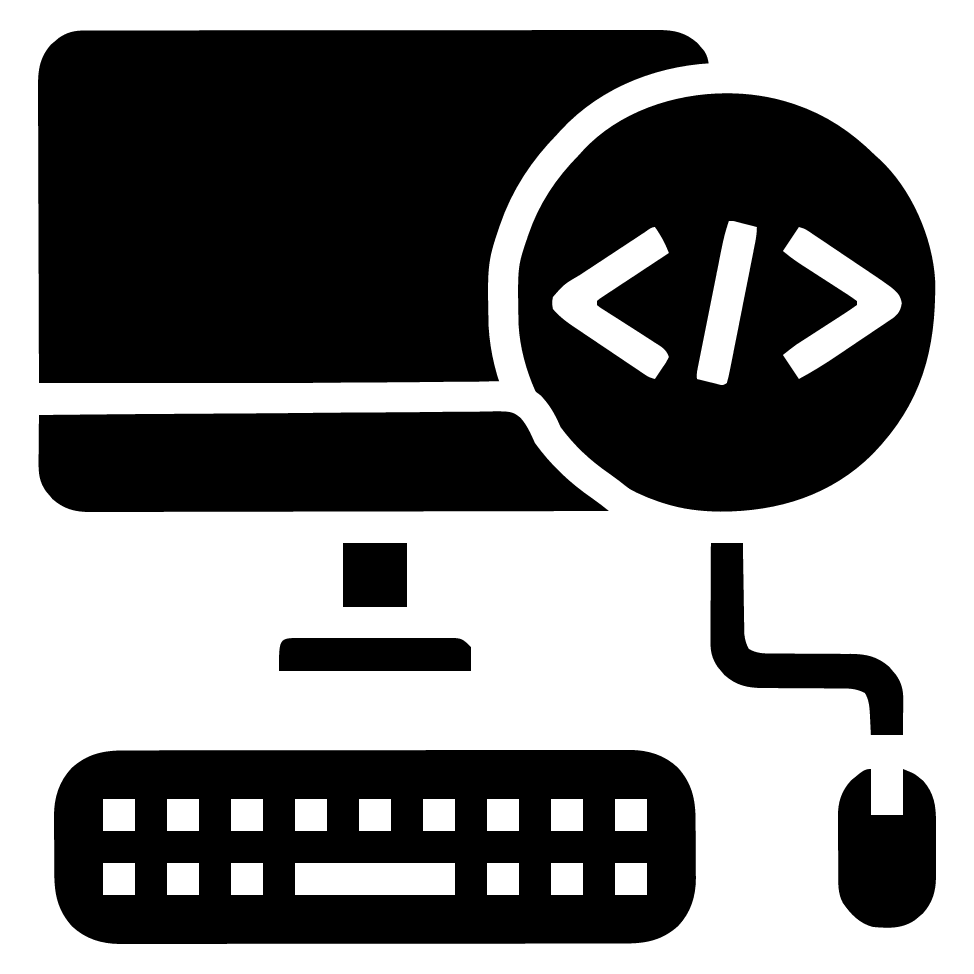
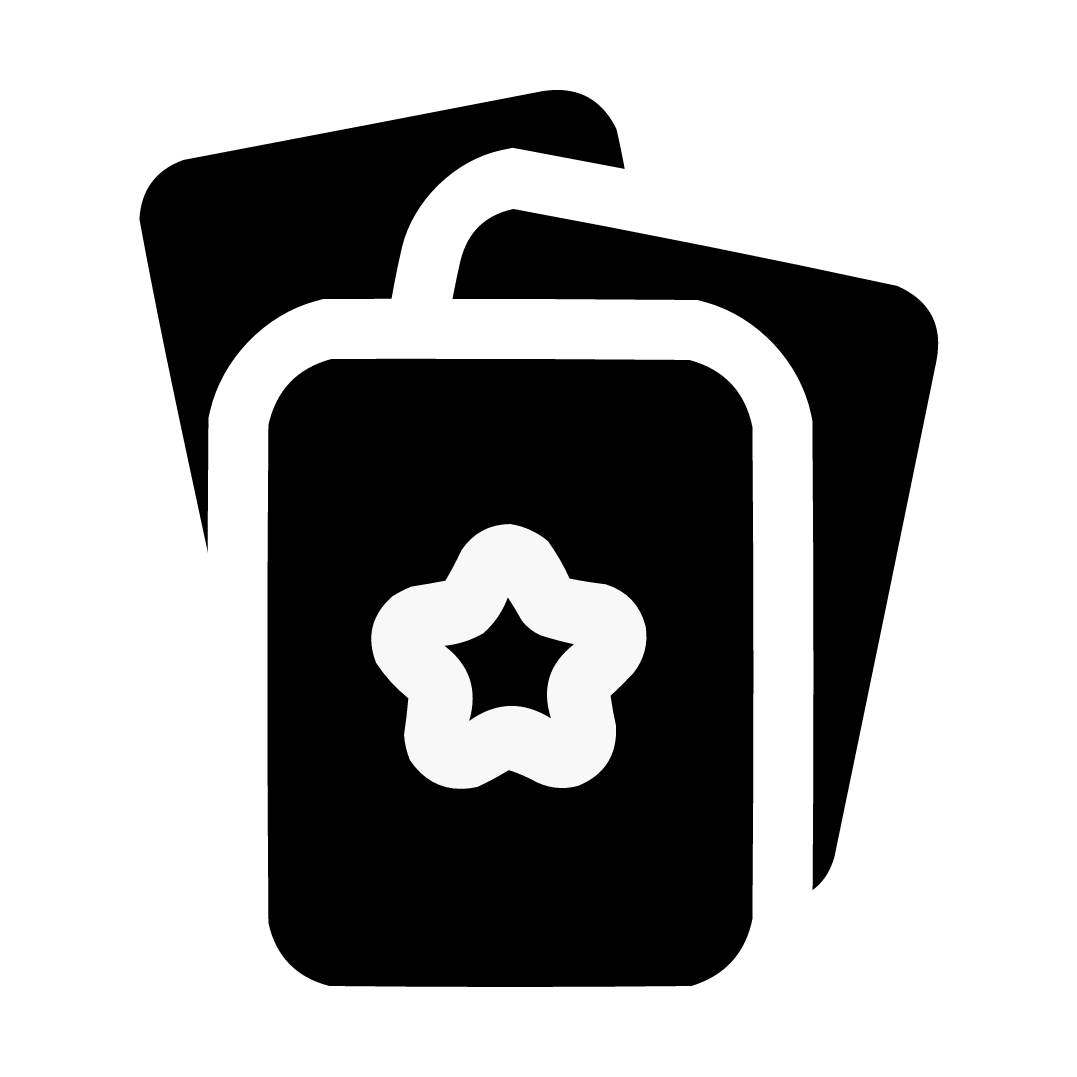
Add the DELETE /decks/cover endpoint
Split the API calls into separate try-catch blocks in components, in order to show response-specific messages to the client

diff --git a/frontend/src/entities/educational-resource/ui/modals/UpdateEducationalResourceModal.vue b/frontend/src/entities/educational-resource/ui/modals/UpdateEducationalResourceModal.vue
@@ -90,7 +90,7 @@ const updateEducationalResourceCoverMutation = useMutation({
   }
 });
 
-const removeEducationalResourceCoverMutation = useMutation({
+const deleteEducationalResourceCoverMutation = useMutation({
   mutationFn: (educationalResourceId: number) => removeCover(educationalResourceId),
   onSuccess: async (updatedEducationalResource) => {
     await queryClient.setQueryData(
@@ -118,18 +118,8 @@ const submit = async () => {
   if (!coverResult.success) return;
 
   try {
-    const {id} = await updateEducationalResourceMutation.mutateAsync(result.data);
-    if (coverResult.data) {
-      await updateEducationalResourceCoverMutation.mutateAsync({
-        educationalResourceId: id,
-        file: coverResult.data
-      });
-    } else {
-      await removeEducationalResourceCoverMutation.mutateAsync(id);
-    }
+    await updateEducationalResourceMutation.mutateAsync(result.data);
     push(t(codeToKey(codes.EDUCATIONAL_RESOURCE_UPDATE_SUCCESS)), "success", "update");
-    backdropStore.hide();
-    modalStore.hide();
   } catch (error) {
     push(t(codeToKey(codes.EDUCATIONAL_RESOURCE_UPDATE_ERROR)), "error");
     if (axios.isAxiosError(error)) {
@@ -137,6 +127,35 @@ const submit = async () => {
       await serverValidate(body);
     }
   }
+
+  if (coverResult.data) {
+    try {
+      await updateEducationalResourceCoverMutation.mutateAsync({
+        educationalResourceId: props.id,
+        file: coverResult.data
+      });
+      push(t(codeToKey(codes.EDUCATIONAL_RESOURCE_COVER_UPDATE_SUCCESS)), "success", "update");
+    } catch (error) {
+      push(t(codeToKey(codes.EDUCATIONAL_RESOURCE_COVER_UPDATE_ERROR)), "error");
+      if (axios.isAxiosError(error)) {
+        const body = error.response?.data as ErrorResponse;
+        await coverValidation.serverValidate(body);
+      }
+    }
+  } else {
+    try {
+      await deleteEducationalResourceCoverMutation.mutateAsync(props.id);
+      push(t(codeToKey(codes.EDUCATIONAL_RESOURCE_COVER_DELETE_SUCCESS)), "success", "delete");
+    } catch (error) {
+      push(t(codeToKey(codes.EDUCATIONAL_RESOURCE_COVER_DELETE_ERROR)), "error");
+      if (axios.isAxiosError(error)) {
+        const body = error.response?.data as ErrorResponse;
+        await coverValidation.serverValidate(body);
+      }
+    }
+  }
+  backdropStore.hide();
+  modalStore.hide();
 };
 
 onMounted(() => {

diff --git a/frontend/src/pages/decks/ui/tabs/DeckInfoTab.vue b/frontend/src/pages/decks/ui/tabs/DeckInfoTab.vue
@@ -14,6 +14,7 @@ import {
 } from "@/entities/deck";
 import {decksQueryKeys} from "@/entities/deck";
 import {decksApi} from "@/entities/deck";
+import {removeCover} from "@/entities/deck";
 import {useI18n} from "vue-i18n";
 import {createUploadImageSchema, useToastStore} from "@/shared/model";
 
@@ -82,6 +83,19 @@ const updateDeckCoverMutation = useMutation({
   }
 });
 
+const deleteDeckCoverMutation = useMutation({
+  mutationFn: (deckId: number) => removeCover(deckId),
+  onSuccess: async (updatedDeck, variables) => {
+    await queryClient.setQueryData(
+        decksQueryKeys.byId(variables),
+        (old: DeckResponseDto | undefined) => {
+          if (!old) return old;
+          return updatedDeck;
+        }
+    );
+  }
+});
+
 const cover = ref<File | null>(null);
 
 const coverValidation = useValidation(cover, createUploadImageSchema("cover", t, allowedImageTypes, MAX_DECK_COVER_SIZE));
@@ -114,17 +128,30 @@ const submit = async () => {
     }
   }
 
-  try {
-    if (coverResult.data) await updateDeckCoverMutation.mutateAsync({
-      deckId: props.id,
-      file: coverResult.data
-    });
-    push(t(codeToKey(codes.DECK_COVER_UPDATE_SUCCESS)), "success", "update");
-  } catch (error) {
-    push(t(codeToKey(codes.DECK_COVER_UPDATE_ERROR)), "error");
-    if (axios.isAxiosError(error)) {
-      const body = error.response?.data as ErrorResponse;
-      await serverValidate(body);
+  if (coverResult.data) {
+    try {
+      await updateDeckCoverMutation.mutateAsync({
+        deckId: props.id,
+        file: coverResult.data
+      });
+      push(t(codeToKey(codes.DECK_COVER_UPDATE_SUCCESS)), "success", "update");
+    } catch (error) {
+      push(t(codeToKey(codes.DECK_COVER_UPDATE_ERROR)), "error");
+      if (axios.isAxiosError(error)) {
+        const body = error.response?.data as ErrorResponse;
+        await coverValidation.serverValidate(body);
+      }
+    }
+  } else {
+    try {
+      await deleteDeckCoverMutation.mutateAsync(props.id);
+      push(t(codeToKey(codes.DECK_COVER_DELETE_SUCCESS)), "success", "update");
+    } catch (error) {
+      push(t(codeToKey(codes.DECK_COVER_DELETE_ERROR)), "error");
+      if (axios.isAxiosError(error)) {
+        const body = error.response?.data as ErrorResponse;
+        await coverValidation.serverValidate(body);
+      }
     }
   }
 };

diff --git a/backend/src/deck/deck.service.ts b/backend/src/deck/deck.service.ts
@@ -106,6 +106,24 @@ export class DeckService {
     return this.mapDeckWithFlashcardsCountToResponse(updatedDeck);
   }
 
+  async removeCover(deckId: number): Promise<DeckResponseDto> {
+    const { coverKey } = await this.getDeckWithFlashcardsCountOrThrow(deckId);
+
+    if (coverKey) await this.storageService.delete(coverKey);
+
+    const updatedDeck = await this.prismaService.deck.update({
+      where: {
+        id: deckId,
+      },
+      data: {
+        coverKey: null,
+      },
+      include: deckWithFlashcardsCountQuery,
+    });
+
+    return this.mapDeckWithFlashcardsCountToResponse(updatedDeck);
+  }
+
   async assertOwnership(userId: number, deckId: number) {
     const deck = await this.prismaService.deck.findFirst({
       where: {

diff --git a/frontend/src/entities/deck/index.ts b/frontend/src/entities/deck/index.ts
@@ -1,5 +1,6 @@
 export * as decksApi from "./api/decks";
 export {uploadCover} from "./api/upload-cover";
+export {removeCover} from "./api/remove-cover";
 export {decksQueryKeys} from "./api/decks-query-keys.ts";
 export {createCreateDeckSchema, type CreateDeckDto} from "./model/create-deck.schema";
 export {createUpdateDeckSchema, type UpdateDeckDto} from "./model/update-deck.schema";

diff --git a/frontend/src/entities/deck/api/remove-cover.ts b/frontend/src/entities/deck/api/remove-cover.ts
@@ -1,0 +1,9 @@
+import type {
+    DeckResponseDto
+} from "../model/deck-response.dto";
+import {client, type SuccessResponse} from "@/shared/api";
+
+export async function removeCover(deckId: number): Promise<DeckResponseDto> {
+    const {data: {data}} = await client.delete<SuccessResponse<DeckResponseDto>>(`/decks/${deckId}/cover`);
+    return data;
+}

diff --git a/frontend/src/shared/config/files.config.ts b/frontend/src/shared/config/files.config.ts
@@ -5,6 +5,6 @@ export const allowedImageTypes = {
 };
 
 export const MAX_USER_AVATAR_SIZE = 5 * 1024 * 1024;
-export const MAX_DECK_COVER_SIZE = 5 * 1024 * 1024;
+export const MAX_DECK_COVER_SIZE = 0.5 * 1024 * 1024;
 export const MAX_EDUCATIONAL_RESOURCE_SIZE = 10 * 1024 * 1024;
 export const MAX_EDUCATIONAL_RESOURCE_COVER_SIZE = 5 * 1024 * 1024;

diff --git a/backend/src/deck/deck.controller.ts b/backend/src/deck/deck.controller.ts
@@ -73,4 +73,12 @@ export class DeckController {
   ) {
     return this.deckService.uploadCover(deckId, file);
   }
+
+  @Delete(":deckId/cover")
+  @HttpCode(200)
+  async removeCover(
+    @Param("deckId", new ParseIntPipe()) deckId: number
+  ) {
+    return this.deckService.removeCover(deckId);
+  }
 }

diff --git a/frontend/src/shared/config/resources/resource-name.codes.ts b/frontend/src/shared/config/resources/resource-name.codes.ts
@@ -4,7 +4,8 @@ export const resourceNameCodes = [
     "FLASHCARD",
     "DECK",
     "DECK_COVER",
-    "EDUCATIONAL_RESOURCE"
+    "EDUCATIONAL_RESOURCE",
+    "EDUCATIONAL_RESOURCE_COVER"
 ] as const;
 
 export type ResourceNameCode = (typeof resourceNameCodes)[number];
